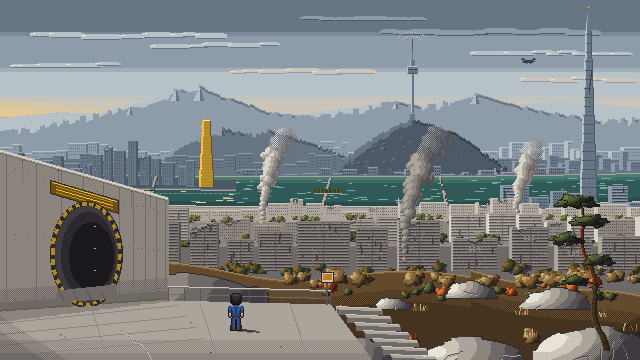
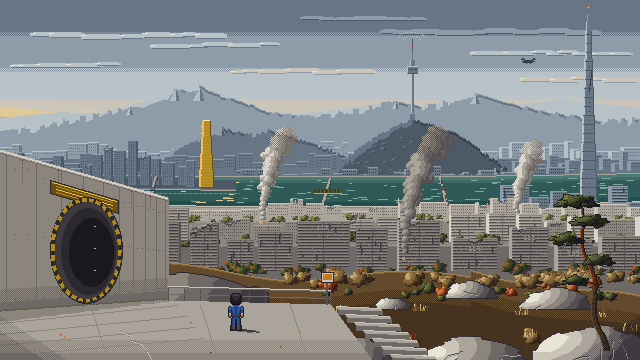
대표 그림: 원형 정문 아래 덧그림(통로 바닥) 제거, 정문 4px 위로
Claude-Session: https://claude.ai/code/session_01AB2Pu8KtgEfTfn2XzBJpW9

Changed region(s): [[0.0938, 0.7333, 0.1875, 0.8556], [0.0938, 0.55, 0.1875, 0.6722], [0.0625, 0.6111, 0.0938, 0.7944]]

diff --git a/art/tools/keyart.py b/art/tools/keyart.py
@@ -688,7 +688,7 @@ def vault_exit(cv):
     for k in range(3):
         d.line([(56, 186 + k * 3), (112, 202 + k * 3)], fill=T("P48") if k != 1 else T("P49"))
     # round portal (oblique ellipse) with the hazard ring, dark tunnel, lamps inside
-    cx, cy, rx, ry = 86, 254, 31, 48
+    cx, cy, rx, ry = 86, 250, 31, 48
     d.ellipse([cx - rx - 5, cy - ry - 5, cx + rx + 5, cy + ry + 5], fill=T("P02"))
     for a in range(0, 360, 12):                              # hazard chevrons
         ra, rb = math.radians(a), math.radians(a + 6)
@@ -701,10 +701,6 @@ def vault_exit(cv):
     d.ellipse([cx - rx + 14, cy - ry + 16, cx + rx - 4, cy + ry - 12], fill=T("P01"))
     for ly in (226, 248, 270):                               # ceiling lamps down the tunnel
         cv.put(cx + 8, ly, "P15"); cv.put(cx + 9, ly, "P14")
-    d.polygon([(cx - rx + 2, cy + ry - 12), (cx + rx - 2, cy + ry - 18), (cx + rx, cy + ry - 4), (cx - rx, cy + ry)],
-              fill=T("P05"))                                  # tunnel floor grating catching outside light
-    for k in range(4):
-        d.line([(cx - rx + 4 + k * 14, cy + ry - 11), (cx - rx + 8 + k * 14, cy + ry - 2)], fill=T("P04"))
     # the gear door rolled aside INSIDE the vault (its recess is behind the wall), so from outside only the empty
     # round portal and the dim gate corridor are visible
 
